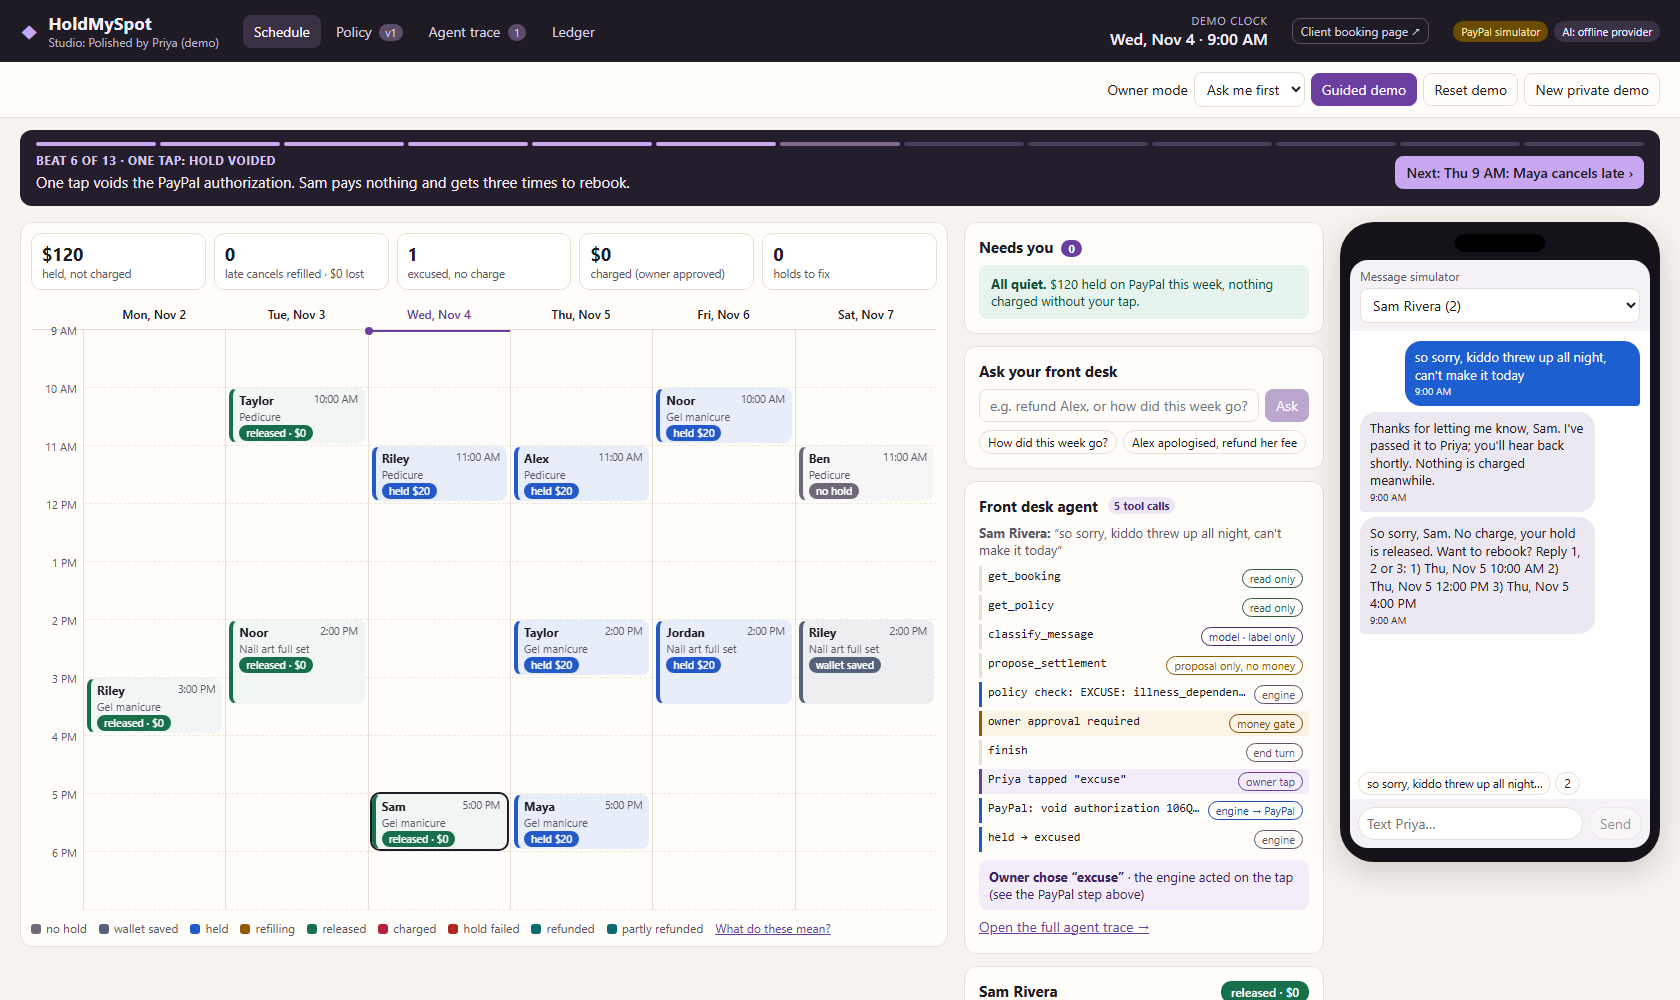
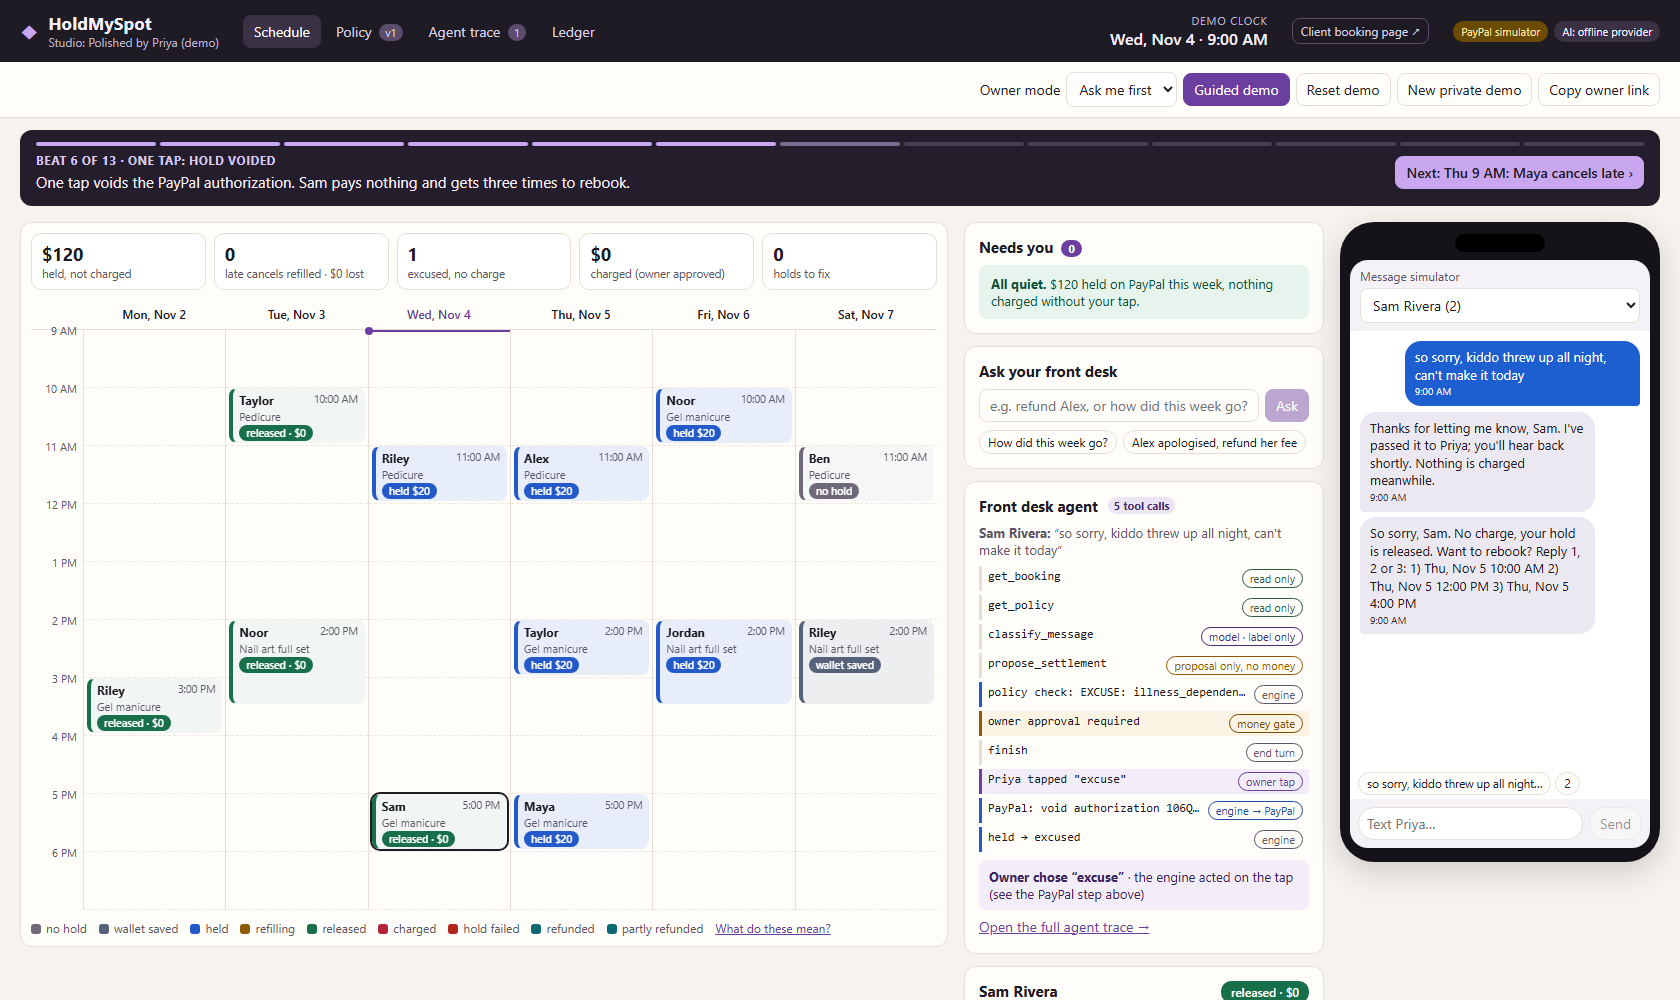
Console: Copy owner link (opens a private console in another browser; token in the fragment)

Changed region(s): [[0.5881, 0.062, 0.9905, 0.124]]

diff --git a/web/src/App.tsx b/web/src/App.tsx
@@ -249,6 +249,7 @@ export function App() {
         >
           New private demo
         </button>
+        {ws !== 'demo' && ownerToken(ws) && <CopyOwnerLink ws={ws} token={ownerToken(ws)!} />}
       </nav>
 
       {demoOn && s.paymentsMode === 'mock' && <DemoBar api={api} s={s} busy={busy} run={run} applyView={applyView} />}
@@ -316,6 +317,30 @@ export function App() {
  * an owner tap) and points the console at the booking and phone thread the narration talks about.
  * Keyboard: → or N. Optional ?autoplay=<seconds> advances on its own.
  */
+/** The private console's link for another browser or device: the owner token rides in the fragment (never sent to the server in the URL). */
+function CopyOwnerLink({ ws, token }: { ws: string; token: string }) {
+  const [done, setDone] = useState<'copied' | 'failed' | null>(null);
+  const link = `${location.origin}/?ws=${encodeURIComponent(ws)}#owner=${encodeURIComponent(token)}`;
+  return (
+    <button
+      className="ghost"
+      title="Opens this private console in another browser. Keep it to yourself: it gives full owner access. Share the client booking page instead."
+      onClick={async () => {
+        try {
+          await navigator.clipboard.writeText(link);
+          setDone('copied');
+        } catch {
+          window.prompt('Copy the owner link (full owner access):', link);
+          setDone('failed');
+        }
+        setTimeout(() => setDone(null), 2500);
+      }}
+    >
+      <span aria-live="polite">{done === 'copied' ? 'Owner link copied' : 'Copy owner link'}</span>
+    </button>
+  );
+}
+
 function DemoBar({
   api,
   s,
